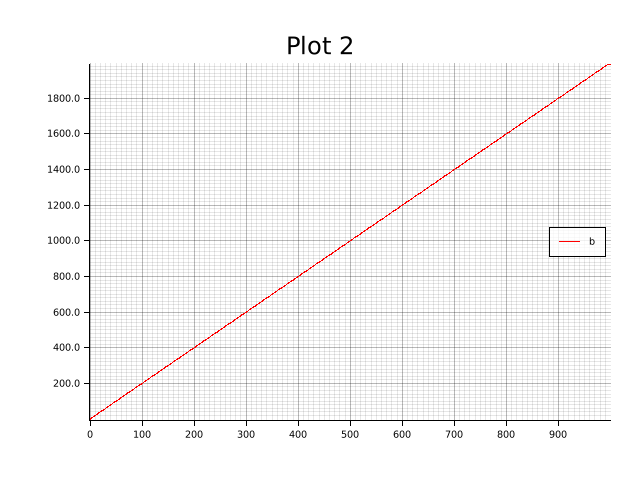
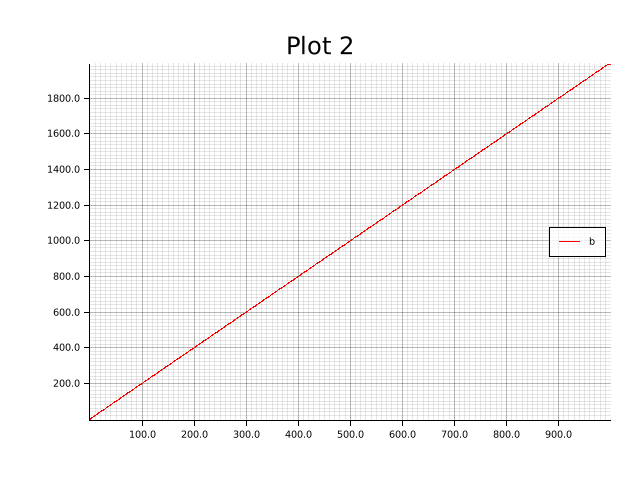
add support for tuples

diff --git a/src/lib.rs b/src/lib.rs
@@ -1,5 +1,5 @@
 //! This crate provides a convenient macro to quickly plot variables.
-//! 
+//!
 //! When running in release mode, no plots are generated.
 //! To disable compilation of dependencies in release mode,
 //! pass `--no-default-features` to this crate.
@@ -9,20 +9,28 @@
 /// This macro is used to quickly generate plots for a list of variables.
 /// All types that implement `num_traits::cast::ToPrimitive` can be plotted.
 ///
-/// The macro takes a list of variables.
+/// The macro takes a list of variables. By default, the value of the variable
+/// is mapped to the y axis, and the x axis shows the iteration number.
 ///
 /// ```rust
 /// debug_plotter::plot!(a, b, c);
 /// ```
 /// 
-/// It is also possible to rename variables in the legend.
+/// It is possible to pass a tuple if you want the x axis to be another value
+/// instead of the iteration number.
 /// 
+/// ```rust
+/// debug_plotter::plot!((x, a), (x, b), (x, c));
+/// ```
+///
+/// It is also possible to rename variables in the legend using the keyword `as`.
+///
 /// ```rust
 /// debug_plotter::plot!(a as "Alice", b as "Bob", c as "Charlie");
 /// ```
 ///
 /// It is possible to provide additional options for the plot
-/// after a `where` clause.
+/// after a `where` keyword.
 ///
 /// ```rust
 /// debug_plotter::plot!(a, b, c where caption = "My Caption");
@@ -39,14 +47,16 @@
 /// |`path`|`"/plots/my_plot.jpg"`|Defines where the plot is saved.|
 #[macro_export]
 macro_rules! plot {
-    ( $($variable:ident $( as $name:literal )? ),* $(,)? $( where $($key:ident = $value:expr),* $(,)? )?) => {
+    (
+        $( $( $variable:ident )? $( ( $x:ident, $y:ident ) )? $( as $name:literal )? ),* $(,)?
+        $( where $($key:ident = $value:expr),* $(,)? )?
+    ) => {
         #[cfg(any(debug_assertions, feature = "plot-release"))]
         #[cfg(feature = "debug")]
         {
             use std::cell::RefCell;
             use $crate::{PLOTS, Plottable, Plot, Options, Location};
 
-            let values = [$($variable.to_plot_type()),*];
 
             let location = Location {
                 file: file!(),
@@ -58,12 +68,17 @@ macro_rules! plot {
                 let mut map = plots
                     .plots
                     .borrow_mut();
-                
-                let entry = map
+
+                let plot = map
                     .entry(location.clone())
                     .or_insert_with(|| {
                         let names = [$({
-                            let name = stringify!($variable);
+                            $(
+                                let name = stringify!($variable);
+                            )?
+                            $(
+                                let name = stringify!($y);
+                            )?
                             $(
                                 let name = $name;
                             )?
@@ -80,7 +95,17 @@ macro_rules! plot {
                         Plot::new(names, location, options)
                     });
 
-                entry.insert([$($variable.to_plot_type()),*]);
+                let iteration = plot.iteration();
+
+                plot.insert([$({
+                    $(
+                        let value = (iteration.to_plot_type(), $variable.to_plot_type());
+                    )?
+                    $(
+                        let value = ($x.to_plot_type(), $y.to_plot_type());
+                    )?
+                    value
+                }),*]);
             });
         }
     };
@@ -151,10 +176,11 @@ mod debug {
     type Name = &'static str;
 
     pub struct Plot {
-        values: Vec<Vec<PlotType>>,
+        values: Vec<Vec<(PlotType, PlotType)>>,
         names: Vec<Name>,
         location: Location,
         options: Options,
+        iteration: u64,
     }
 
     impl Plot {
@@ -168,32 +194,43 @@ mod debug {
                 names: names.to_vec(),
                 location,
                 options,
+                iteration: 0,
             }
+        }
+
+        // Get current number of iteration.
+        pub fn iteration(&self) -> u64 {
+            self.iteration
         }
 
         // Insert new values into the plot.
-        pub fn insert<const N: usize>(&mut self, values: [PlotType; N]) {
+        pub fn insert<const N: usize>(&mut self, values: [(PlotType, PlotType); N]) {
             for (i, &value) in values.iter().enumerate() {
-                self.values[i].push(value.to_plot_type())
+                self.values[i].push(value)
             }
+            self.iteration += 1;
         }
 
-        fn x_min(&self) -> usize {
-            0
-        }
-
-        fn x_max(&self) -> usize {
+        fn x_min(&self) -> PlotType {
             self.values
                 .iter()
-                .map(|values| values.len() - 1)
-                .max()
-                .unwrap_or(0)
+                .map(|values| values.iter().map(|(x, _)| x))
+                .flatten()
+                .fold(PlotType::MAX, |acc, &val| if val < acc { val } else { acc })
+        }
+
+        fn x_max(&self) -> PlotType {
+            self.values
+                .iter()
+                .map(|values| values.iter().map(|(x, _)| x))
+                .flatten()
+                .fold(PlotType::MIN, |acc, &val| if val > acc { val } else { acc })
         }
 
         fn y_min(&self) -> PlotType {
             self.values
                 .iter()
-                .map(|values| values.iter())
+                .map(|values| values.iter().map(|(_, y)| y))
                 .flatten()
                 .fold(PlotType::MAX, |acc, &val| if val < acc { val } else { acc })
         }
@@ -201,7 +238,7 @@ mod debug {
         fn y_max(&self) -> PlotType {
             self.values
                 .iter()
-                .map(|values| values.iter())
+                .map(|values| values.iter().map(|(_, y)| y))
                 .flatten()
                 .fold(PlotType::MIN, |acc, &val| if val > acc { val } else { acc })
         }
@@ -210,7 +247,8 @@ mod debug {
         fn plot(&self) -> Result<(), Box<dyn std::error::Error>> {
             let default_caption = &format!("{}", self.location);
             let caption = self.options.caption.as_ref().unwrap_or(default_caption);
-            let default_path = &format!("plots/{}.png", caption.replace("/", "-").replace(" ", "_"));
+            let default_path =
+                &format!("plots/{}.png", caption.replace("/", "-").replace(" ", "_"));
             let path = self.options.path.as_ref().unwrap_or(default_path);
             let path = std::path::Path::new(&path);
             println!("Saving plot \"{}\" to {:?}", caption, path);
@@ -240,10 +278,7 @@ mod debug {
                 let color = HSLColor(i as f64 / self.names.len() as f64, 1.0, 0.5);
 
                 chart
-                    .draw_series(LineSeries::new(
-                        values.iter().copied().enumerate(),
-                        &color,
-                    ))?
+                    .draw_series(LineSeries::new(values.iter().copied(), &color))?
                     .label(name)
                     .legend(move |(x, y)| PathElement::new(vec![(x, y), (x + 20, y)], &color));
             }

diff --git a/examples/renaming.rs b/examples/renaming.rs
@@ -1,10 +1,8 @@
 fn main() {
-    for x in 0usize..20usize {
-        let sin_x = (x as f32).sin();
-        debug_plotter::plot!(
-            x as "x",
-            sin_x as "sin(x)" where
-            caption = "Renaming"
-        );
+    for a in 0usize..10usize {
+        let b = (a as f32 / 2.0).sin() * 10.0;
+        let c = 5 - (a as i32);
+
+        debug_plotter::plot!(a as "Alice", b as "Bob", c as "Charlie" where caption = "Renaming");
     }
 }

diff --git a/examples/tuples.rs b/examples/tuples.rs
@@ -1,0 +1,9 @@
+fn main() {
+    for x in 0usize..100usize {
+        let x = x as f64 / 100.0 * std::f64::consts::PI * 2.0;
+        let sin_x = x.sin();
+        let cos_x = x.cos();
+
+        debug_plotter::plot!((x, sin_x) as "sin(x)", (x, cos_x) as "cos(x)" where caption = "Trigonometry", x_desc = "x");
+    }
+}

diff --git a/examples/options.rs b/examples/options.rs
@@ -6,7 +6,7 @@ fn main() {
             size = (400, 300),
             x_desc = "X Description",
             y_desc = "Y Description",
-            path = "plots/custom_path.jpg"
+            path = "plots/Options.jpg"
         );
     }
 }
